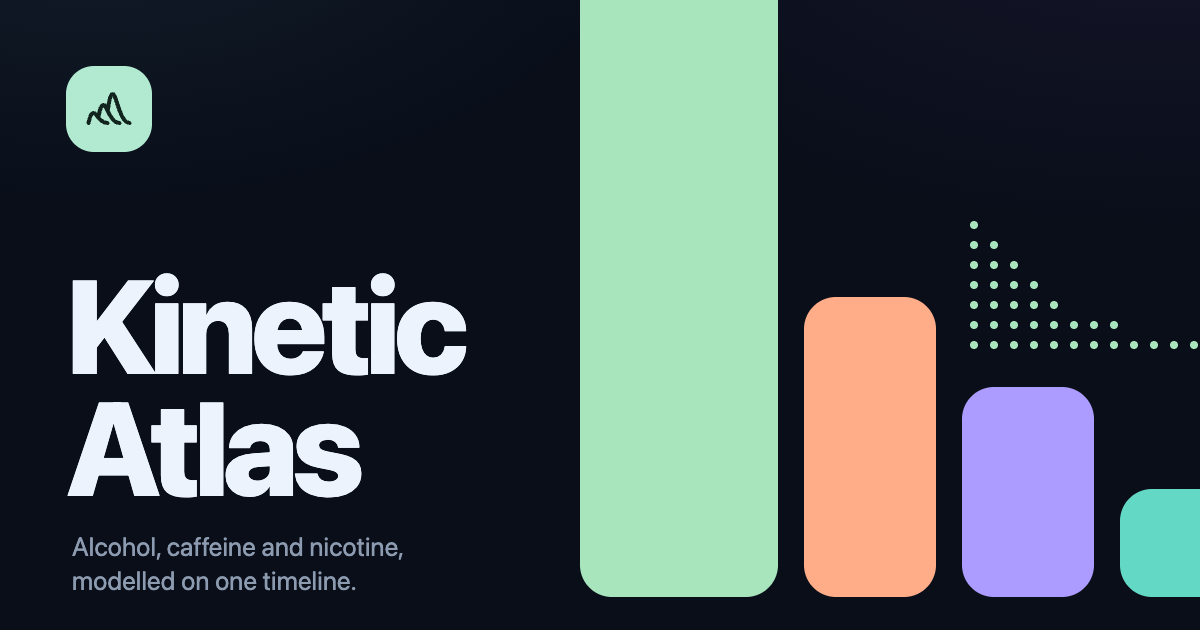
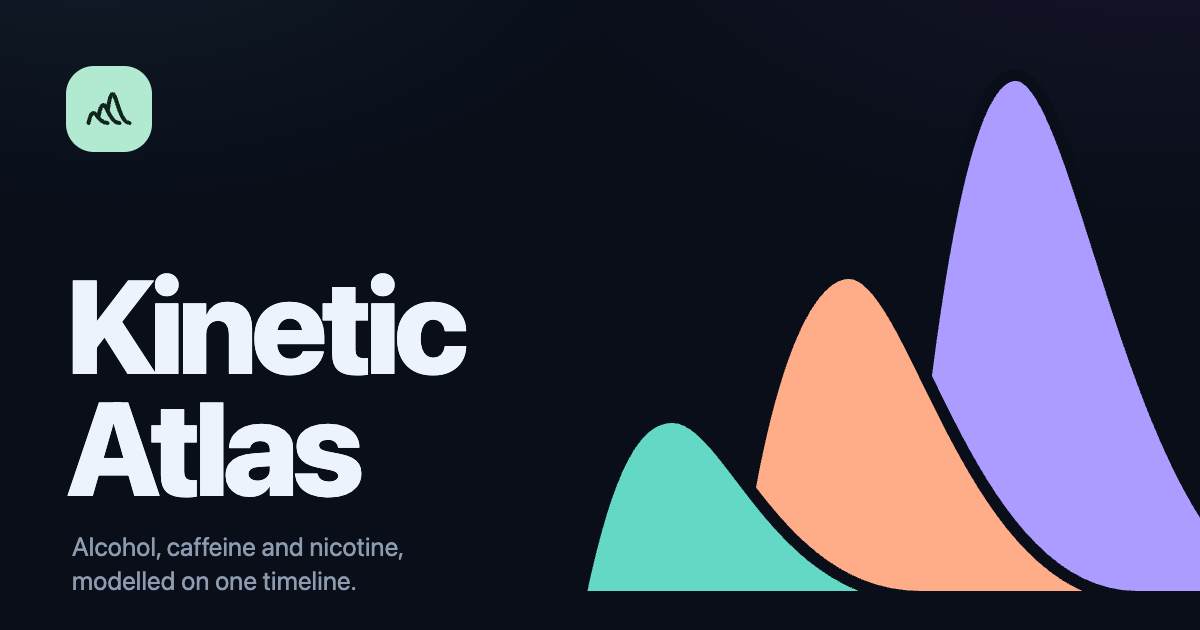
feat(brand): redraw the link-preview art as the mark's three dose curves

Changed region(s): [[0.4625, 0.0, 1.0, 0.9651]]

diff --git a/docs/brand/og.html b/docs/brand/og.html
@@ -15,7 +15,6 @@
   .name { margin:0; font-size:132px; line-height:.92; font-weight:850; letter-spacing:-.045em; }
   .tag { max-width:440px; margin:22px 0 0 6px; font-size:26px; line-height:34px; color:var(--muted); }
   .art { position:absolute; right:0; top:0; }
-  .mint, .dot { fill:var(--primary); }
   .alc { fill:var(--alc); }
   .caf { fill:var(--caf); }
   .nic { fill:var(--nic); }
@@ -23,22 +22,17 @@
 </head>
 <body>
 <svg class="mark" width="86" height="86" viewBox="0 0 43 43" fill="none" aria-hidden="true"><rect width="43" height="43" rx="14" fill="#b1ead1"/><path transform="translate(8.5 8.5)" d="M2.75 20C3.51 16.4 4.27 15 5.32 15C6.93 15 8.17 20 12.25 20M7.66 17.26C8.41 12.8 9.2 11 10.22 11C12.09 11 13.52 20 18.25 20M12.37 13.92C13.1 7.95 13.87 5.5 14.86 5.5C16.81 5.5 18.3 20 23.25 20" stroke="#11241d" stroke-width="2" stroke-linecap="round" stroke-linejoin="round"/></svg>
-<!-- the gallery cover's staircase at 1.5x: primary bleeds off the top, nicotine off the right, bottoms one line 33px above the edge -->
+<!-- the brandmark's three dose curves at 36x, filled in the compound hues, back to front: each starts later and peaks higher, the smaller in front; a bg-coloured outline parts them; baseline one line 33px above the edge, the tallest tail bleeding off the right -->
 <svg class="art" width="620" height="630" viewBox="0 0 620 630" aria-hidden="true">
-<rect class="mint" x="0" y="-32" width="198" height="629" rx="32"/>
-<rect class="alc" x="224" y="297" width="132" height="300" rx="32"/>
-<rect class="caf" x="382" y="387" width="132" height="210" rx="32"/>
-<rect class="nic" x="540" y="489" width="213" height="108" rx="32"/>
-<g id="dots"></g>
+<g transform="translate(-99 -123) scale(36)" stroke="var(--bg)" stroke-width=".33" stroke-linejoin="round">
+<path class="caf" d="M11.7 20C12.8 8 13.87 5.5 14.86 5.5C16.81 5.5 18.3 20 23.25 20Z"/>
+<path class="alc" d="M7 20C7.9 13 9.2 11 10.22 11C12.09 11 13.52 20 18.25 20Z"/>
+<path class="nic" d="M2.75 20C3.51 16.4 4.27 15 5.32 15C6.93 15 8.17 20 12.25 20Z"/>
+</g>
 </svg>
 <div class="words">
 <h1 class="name">Kinetic<br>Atlas</h1>
 <p class="tag">Alcohol, caffeine and nicotine, modelled on one timeline.</p>
 </div>
-<script>
-// dot grid from the cover: 20px pitch, column heights decaying 7 to 1, floating above the caffeine slab
-const g = document.getElementById('dots');
-[7,6,5,4,3,2,2,2,1,1,1,1].forEach((h, c) => { for (let r = 0; r < h; r++) g.insertAdjacentHTML('beforeend', `<circle class="dot" cx="${394 + c*20}" cy="${345 - r*20}" r="4"/>`); });
-</script>
 </body>
 </html>
